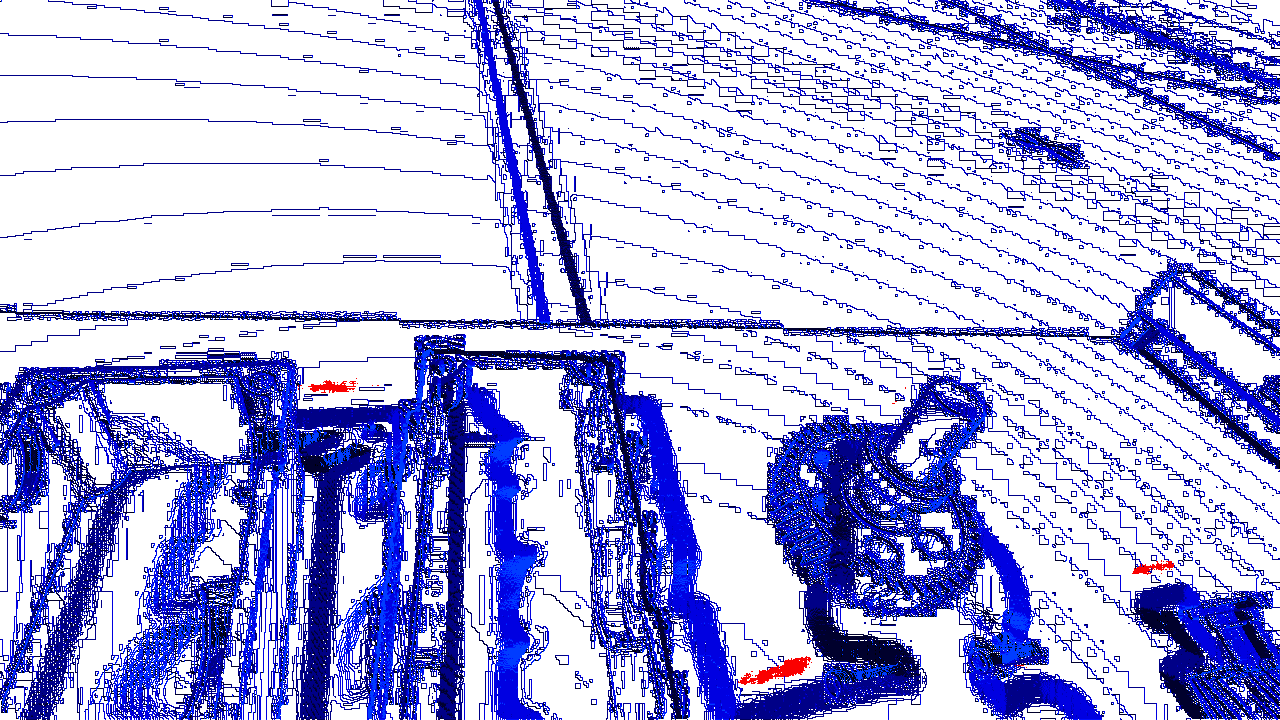
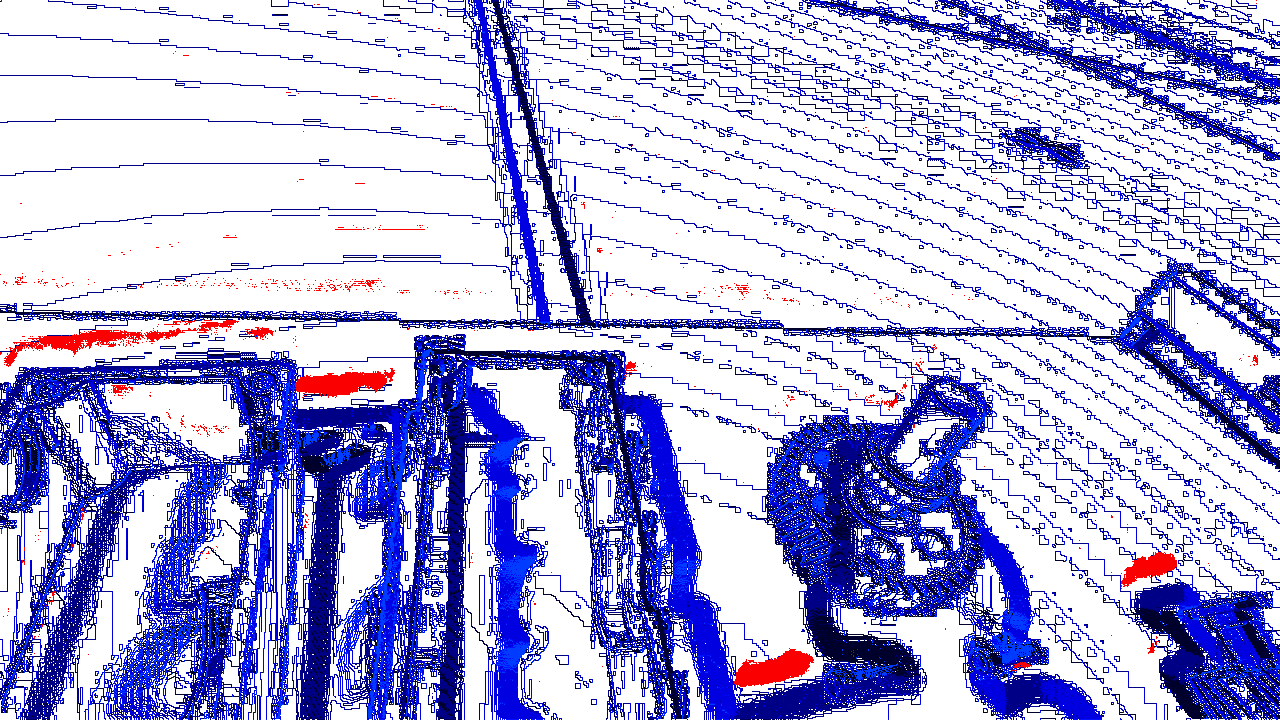
grad

diff --git a/src/main/java/MatchFrag.java b/src/main/java/MatchFrag.java
@@ -24,7 +24,12 @@ public class MatchFrag {
         frag = new int[bi.getHeight()][bi.getWidth()];
         for (int i = 0; i < bi.getHeight(); i++) {
             for (int j = 0; j < bi.getWidth(); j++) {
-                frag[i][j] = bi.getRGB(j, i);
+                int argb = bi.getRGB(j, i);
+                int alpha = (argb >> 24) & 0xff;
+                int red = (argb >> 16) & 0xff;
+                int green = (argb >> 8) & 0xff;
+                int blue = (argb) & 0xff;
+                frag[i][j] = red + green + blue;
                 if (frag[i][j] != -1) {
                     System.out.print(1 + " ");
                     continue;
@@ -74,7 +79,7 @@ public class MatchFrag {
         }
         for (int k = 0; k < xy.size(); k++) {
 //            System.out.println(xy.get(k)[0]+" "+ xy.get(k)[1]);
-            bi.setRGB(xy.get(k)[1], xy.get(k)[0], new Color(250,0,0).getRGB());
+            bi.setRGB(xy.get(k)[1], xy.get(k)[0], new Color(250, 0, 0).getRGB());
         }
         ImageIO.write(bi, "png", res);
     }
@@ -83,7 +88,7 @@ public class MatchFrag {
         int buffMatch = 0;
         int width = frag[0].length;
         int height = frag.length;
-        System.out.println(x + " " + y);
+//        System.out.println(x + " " + y);
 //        if ((x + frag.length) >= bi.getHeight()) {
 //            height = y + frag.length - bi.getHeight();
 ////            System.out.println("yes");
@@ -118,20 +123,34 @@ public class MatchFrag {
 //                    buffMatch++;
 //                    continue;
 //                }
-                if ((y + j) < bi.getWidth() && (i + x) <bi.getHeight() && frag[i][j] == bi.getRGB(y + j, i + x)) {
+                if ((y + j) < bi.getWidth() && (i + x) < bi.getHeight()) {
+
+                    int argb = bi.getRGB(j + y, i + x);
+                    int alpha = (argb >> 24) & 0xff;
+                    int red = (argb >> 16) & 0xff;
+                    int green = (argb >> 8) & 0xff;
+                    int blue = (argb) & 0xff;
+                    int rgb = red + green + blue;
+                    if (rgb==frag[i][j]){
+                        buffMatch++;
+                    }
+
 //                     Math.abs(frag[i][j]) - Math.abs(bi.getRGB(y + j, i + x)) < -1000000
 //                    frag[i][j] == bi.getRGB(y + j, i + x)
 //                    (y + i) < bi.getWidth() && (j + x) < bi.getHeight() &&
 //                    (y + i) < bi.getWidth() && (j + x) < bi.getHeight() &&
 //                    System.out.println(y+j);
-                    buffMatch++;
+
                 }
             }
         }
 
 //        System.out.println(buffMatch);
+        if(y==809 && x==370){
+            System.out.println("buffMatch " + buffMatch);
+        }
 
-        if (buffMatch >= 320) {
+        if (buffMatch >= 319) {
             match.add(buffMatch);
             xy.add(new Integer[]{x, y});
 //            System.out.println(match);
@@ -141,7 +160,7 @@ public class MatchFrag {
 
 
     public static void main(String[] args) throws IOException {
-        MatchFrag mf = new MatchFrag(new File("frag7.png"));
+        MatchFrag mf = new MatchFrag(new File("frag8.png"));
 //        MatchFrag mf = new MatchFrag();
         mf.findMatch(new File("grad_map_image2.png"));
 

diff --git a/src/main/java/Frag.java b/src/main/java/Frag.java
@@ -7,7 +7,7 @@ public class Frag {
     public static void main(String[] args) throws IOException {
         BufferedImage bi = ImageIO.read(new File("grad_map_image1.png"));
         Frag frag = new Frag();
-        frag.makeFrag(bi, 809, 371, 21, 37);
+        frag.makeFrag(bi, 809, 370, 23, 37);
         BufferedImage bi1 = ImageIO.read(new File("frag.png"));
 //        frag.clear(bi1);
     }
@@ -37,7 +37,7 @@ public class Frag {
             }
         }
 
-        File file = new File("frag7.png");
+        File file = new File("frag8.png");
         if (!file.exists()) {
             file.createNewFile();
         }
